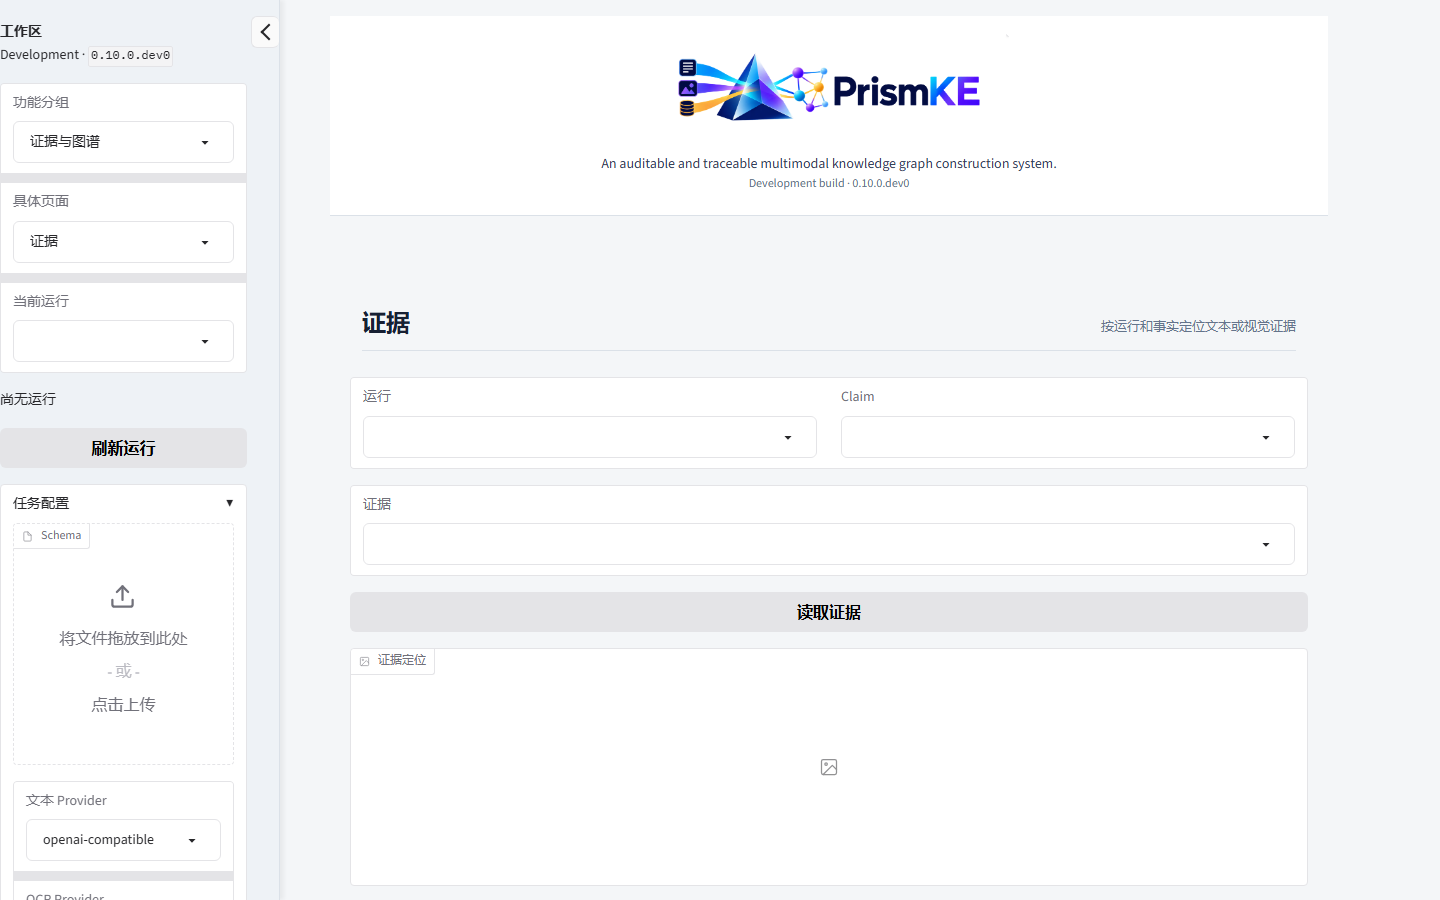
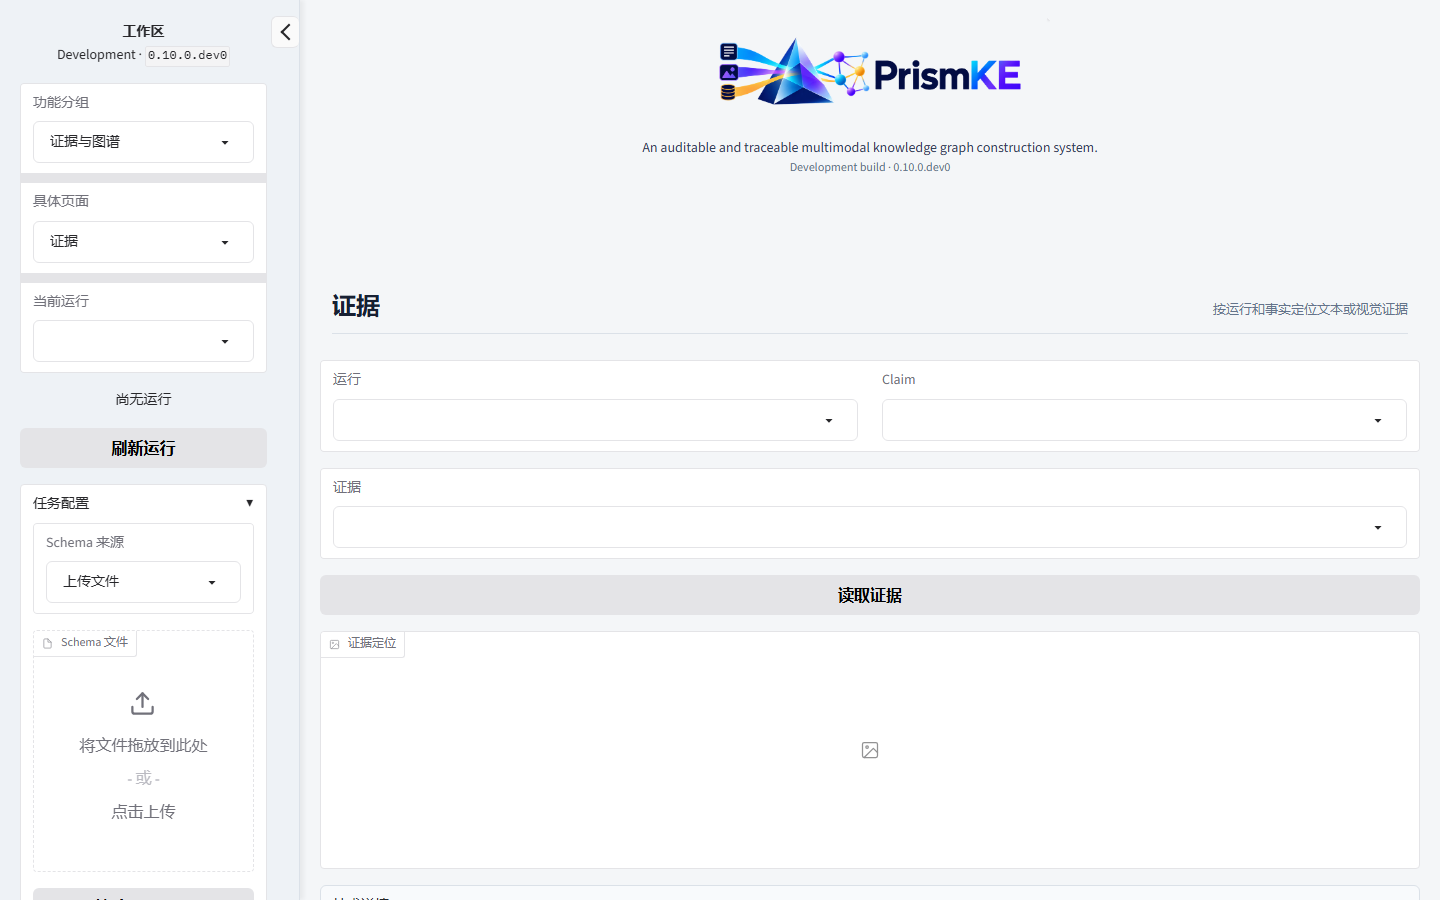
docs(web): record v0.10 frontend completion

diff --git a/docs/PrismKE-v0.10前端视觉验收.md b/docs/PrismKE-v0.10前端视觉验收.md
@@ -1,17 +1,21 @@
-# PrismKE v0.10 前端视觉验收
+# PrismKE v0.10 前端收尾与视觉验收
 
 ## 验收范围
 
 本轮在 `dev/v0.10` 上重构 Gradio 研究工作台，不修改后端业务流程、Agent、实体阈值、API 契约或流程协议。页面采用可折叠左侧配置栏、普通顶部品牌区和动态任务工作区；品牌区使用 `assets/branding/prismke-logo-4k.png`。
 
-验收全部使用独立临时运行目录、JSON 图存储、Mock Provider 和 Mock Embedding。没有调用百炼、BGE-M3、OCR、VLM 或生产 Neo4j，也没有替换生产 v0.9.2 服务。
+验收全部使用独立临时运行目录、JSON 图存储、Mock Provider 和 Mock Embedding。没有调用百炼、BGE-M3、OCR、VLM 或保留的 v0.9.2 图谱。默认端口上的 v0.10 开发验证服务在服务器测试后已按原配置恢复健康；v0.9.2 代码、图谱和回退目录未修改。
 
 ## 页面结构
 
-- 左侧栏按“工作区状态、功能分组、具体页面、当前运行、任务配置、高级策略、模型与图存储”组织。
+- 左侧栏按“工作区状态、功能分组、具体页面、当前运行、任务配置、高级策略、模型与图存储”组织；状态居中，表单标签保持左对齐。
+- 桌面侧栏可在 `260–520px` 之间鼠标拖动或键盘微调，宽度写入浏览器 `localStorage`；移动端仍为抽屉。
+- 侧栏独立滚动并使用窄型中性滚动条，主工作区随剩余宽度伸缩，表格仅在自身容器滚动。
 - 功能分组和具体页面使用两级 `Dropdown`，完整覆盖 15 个页面；单页面分组自动隐藏第二级选择。
 - 所有单选审核动作、纠正动作和未知请求核对结论均改为 `Dropdown`；二元确认继续使用 `Checkbox`。
-- API Key 和 Neo4j 密码仅显示配置状态，不提供明文显示或编辑控件。
+- Schema 可选择“上传文件”或“文本输入”；JSON/YAML 文本先经领域模型校验，再在忽略的运行目录生成规范 JSON 快照与哈希。
+- LLM/VLM 模型别名为文本输入，默认 `qwen3.7-flash`；Base URL 保持文本输入。API Key 使用密码框，不回显、不持久化，一次执行尝试结束后从服务进程内存清除。
+- OCR 默认“中英混合”，底层映射 PaddleOCR `ch`；另可选“英文”。配置操作者默认为“管理员”。
 - 右侧顶部品牌区在所有任务间共用且不吸顶；任务页统一为标题栏、状态摘要、主要操作区和默认收起的技术详情。
 - 手机端侧栏作为抽屉默认收起，左上角保留展开按钮；桌面和平板默认展开。
 
@@ -36,16 +40,16 @@
 | 检查项 | 结果 |
 |---|---|
 | Ruff | 通过 |
-| Mypy | 107 个源码文件通过 |
-| 完整 pytest | 326 项通过，21 项按环境条件跳过 |
-| 前端结构测试 | 15 个页面唯一覆盖；无 `Radio` 组件；敏感字段无明文控件 |
-| Playwright | `1440×900`、`820×1180`、`390×844` 通过 |
+| Mypy | 99 个源码文件通过 |
+| 本地完整 pytest | 331 项通过，21 项按环境条件跳过 |
+| 前端结构测试 | 15 个页面唯一覆盖；无 `Radio` 组件；密钥框类型为 `password` 且默认值为空 |
+| Playwright | 4 项通过；`1440×900`、`820×1180`、`390×844` 通过 |
 | 页面导航 | 15 个页面逐页可达，标题与路由一致 |
 | 页面溢出 | 三种视口均无页面级横向溢出 |
 | Logo | 三种视口均非空，保持比例；移动端最大宽度 250px |
 | wheel 构建 | `frontend` 与指定 4K Logo 均包含，原始 Logo 未打包 |
 | wheel 安装 | 全新虚拟环境中可导入前端并解析 Logo |
-| 服务器完整 pytest | 339 项通过，8 项按环境条件跳过 |
+| 服务器完整 pytest | 344 项通过，8 项按环境条件跳过 |
 | 服务器隔离 Neo4j | 102 项通过，测试实例在结束后停止 |
 
 本地和服务器完整测试中的跳过项包括需要专用 Neo4j、外部模型或特定平台条件的用例；它们没有被伪装成通过。服务器无卡验收显式使用 `embedding=disabled`、`device=cpu` 和独立 JSON 图存储，避免读取开发服务器 `.env` 中的真实 BGE-M3/CUDA 配置。专用 Neo4j 测试只连接 `127.0.0.1:17687`，并验证了独立数据目录和测试实例标记。
@@ -54,6 +58,7 @@
 
 - `/ui/`、`prismke serve`、FastAPI 路由和现有应用服务保持兼容。
 - 页面切换仅改变显示容器，不创建运行、不触发模型调用，也不清空当前运行或表单状态。
+- 会话密钥仅在执行期间短暂保存于服务进程内存，不进入 `WorkflowState`、检查点、运行数据库、日志或 API 响应。执行结束、服务重启或恢复时缺少密钥，会以 `CREDENTIAL_REQUIRED` 阻断，不自动重试。
 - 完整 JSON、请求细节和低频危险操作默认收起；向量、密钥和密码不进入主要视图。
 - Logo 安装包规则精确到 `prismke-logo-4k.png`，不会自动纳入同目录其他图片。
 - 本轮仍是 `0.10.0.dev0` 开发验收，不代表 v0.10.0 已发布。
@@ -62,4 +67,5 @@
 
 - Gradio 自带页脚仍保留，后续可在不影响可访问性的前提下评估是否隐藏。
 - 空工作区中的按钮会按既有业务规则禁用或返回明确提示；真实任务的数据密度仍需在正式材料审核时继续观察。
-- 生产 v0.9.2 未替换；v0.10 的发布、默认端口切换和生产数据接续均需单独确认。
+- v0.11 的多文件批次、JSONPath 证据和六种任务模式未在本轮实现；需在 v0.10 单独发布确认后从 `main` 创建 `dev/v0.11`。
+- 保留的 v0.9.2 代码与图谱未修改；v0.10 的正式发布和生产数据接续仍需单独确认。

diff --git a/README.md b/README.md
@@ -4,7 +4,7 @@ PrismKE 是一个面向通用多模态知识图谱构建的研究型项目，目
 
 当前稳定版本为 `v0.9.2`。v0.8 将研究工作台重构为左侧导航与右侧主工作区；v0.9 新增不可变审核案例库、BGE-M3 案例检索和受预算约束的 Reflection；v0.9.1 增加 AutoDL 多实例隔离部署能力；v0.9.2 增加历史测试事实的受控治理与 Neo4j 测试实例守卫。系统同时保留持久化任务管理、安全取消、审核纠正、统一校验、语义实体治理、Neo4j 与补偿回滚。软件版本与流程协议版本独立管理；旧运行继续使用对应发布版本处理，生产服务升级需单独执行。
 
-`dev/v0.10` 正在开发三个有结构化交接与决策轨迹的语义 Agent：多模态抽取、实体与事实治理、知识融合与审核。LangGraph 仍是确定性协调器，GraphStore 仍执行硬校验和事务提交；灰区模型建议必须显式启用，默认不增加调用。此开发版尚未发布，也不替换生产服务。职责、命令和边界见 [v0.10 三 Agent 架构说明](docs/PrismKE-v0.10三Agent架构与验收.md)。
+`dev/v0.10` 正在开发三个有结构化交接与决策轨迹的语义 Agent：多模态抽取、实体与事实治理、知识融合与审核。LangGraph 仍是确定性协调器，GraphStore 仍执行硬校验和事务提交；灰区模型建议必须显式启用，默认不增加调用。研究工作台已补齐可调宽侧栏、Schema 文件/文本输入、会话级模型配置和中英混合 OCR 选项，具体边界见 [v0.10 前端视觉验收](docs/PrismKE-v0.10前端视觉验收.md)。此开发版尚未发布，也不替换生产服务。职责、命令和边界见 [v0.10 三 Agent 架构说明](docs/PrismKE-v0.10三Agent架构与验收.md)。
 
 `v0.6.0` 软件版本与流程协议均为 `0.6.0`。新增审核人/原因校验、暂缓、不可变候选与审核事件、可重放投影、纠正预览及精确补偿提交。使用边界见 [v0.6 审核纠正说明](docs/v0.6审核纠正说明.md)，快速检查问题保留在 [问题清单](docs/v0.6.0问题记录与改进清单.md)。旧运行不能由新流程纠正或恢复。
 
